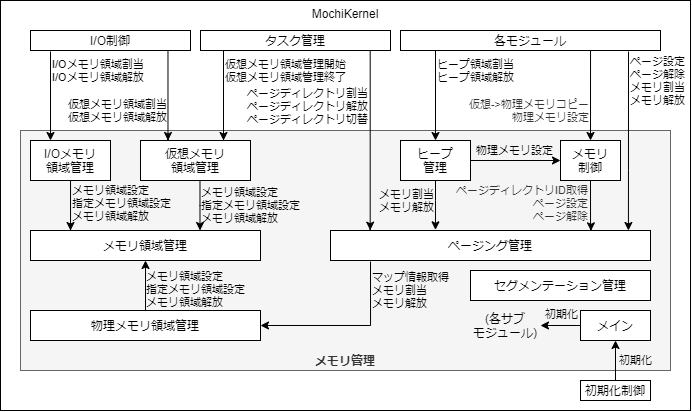
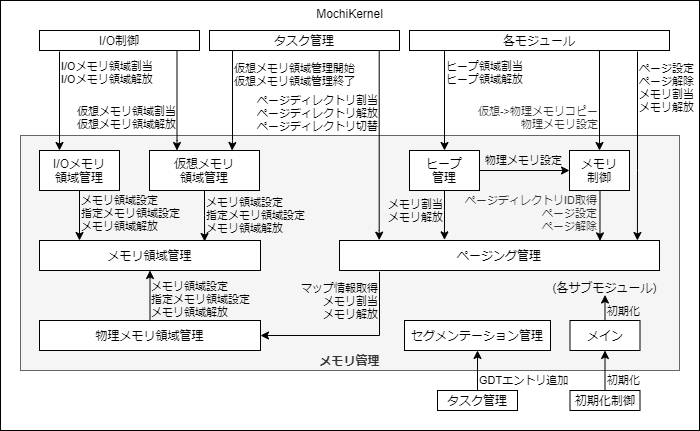
MemmngSgmtモジュールの内部仕様追加

Changed region(s): [[0.0303, 0.0, 1.0, 0.9612], [0.0, 0.9903, 1.0, 1.0]]

diff --git a/docs/docs/internal/Memmng/Sgmt/index.html b/docs/docs/internal/Memmng/Sgmt/index.html
@@ -1,0 +1,91 @@
+<!doctype html>
+<html lang="ja">
+    <head>
+        <meta charset="utf-8">
+        <meta http-equiv="X-UA-Compatible" content="IE=edge"><!-- IE互換モード回避 -->
+        <meta name="author" content="Mochi">
+        <meta name="viewport" content="width=device-width,initial-scale=1"><!-- レスポンシブデザイン -->
+        <meta name="description" content="MochiKernelはフルスクラッチで開発中のマイクロカーネルです。">
+        <meta name="format-detection" content="email=no,telephone=no,address=no">
+        <meta property="og:url" content="https://MasterMochi.github.io/MochiKernel/">
+        <meta property="og:title" content="MochiKernel">
+        <meta property="og:type" content="website">
+        <meta property="og:description" content="MochiKernelはフルスクラッチで開発中のマイクロカーネルです。">
+        <!-- <meta property="og:image" content=""> -->
+        <meta name="twitter:card" content="summary_large_image">
+        <meta name="twitter:site" content="@master_mochi">
+        <!-- <meta name="msapplication-TileImage" content="" --><!-- MSWIN8～ピン留め対応 -->
+        <meta name="msapplication-TitleColor" content="#424242"><!-- MSWIN8～ピン留め対応 -->
+        <link rel="stylesheet" href="../../../../style.css">
+        <link rel="canonical" href="https://MasterMochi.github.io/MochiKernel/">
+        <link href="https://fonts.googleapis.com/css?family=Cutive+Mono" rel="stylesheet">
+        <link href="https://fonts.googleapis.com/css?family=Sawarabi+Mincho" rel="stylesheet">
+        <link href="https://use.fontawesome.com/releases/v5.5.0/css/all.css" rel="stylesheet" integrity="sha384-B4dIYHKNBt8Bc12p+WXckhzcICo0wtJAoU8YZTY5qE0Id1GSseTk6S+L3BlXeVIU" crossorigin="anonymous">
+        <title>MochiKernel - Documentation</title>
+    </head>
+    <body>
+        <a name="totop"></a>
+        <div id="header">
+            <div id="menu">
+                <a href="../../../../index.html"><div id="logo">MochiKernel</div></a>
+                <a href="../../../index.html"><div>Docs</div></a>
+            </div>
+        </div>
+        <div id="crumb">
+            <ol itemscope itemtype="http://schema.org/BreadcrumbList">
+                <li itemprop="itemListElement" itemscope itemtype="http://schema.org/ListItem">
+                    <a itemprop="item" href="../../../../index.html"><span itemprop="name">Home</span></a>
+                    <meta itemprop="position" content="1"></li>
+                <li itemprop="itemListElement" itemscope itemtype="http://schema.org/ListItem">
+                    <a itemprop="item" href="../../../index.html"><span itemprop="name">Docs</span></a>
+                    <meta itemprop="position" content="2"></li>
+                <li itemprop="itemListElement" itemscope itemtype="http://schema.org/ListItem">
+                    <a itemprop="item" href="../../../index.html#internal"><span itemprop="name">内部仕様</span></a>
+                    <meta itemprop="position" content="3"></li>
+                <li itemprop="itemListElement" itemscope itemtype="http://schema.org/ListItem">
+                    <a itemprop="item" href="../index.html"><span itemprop="name">メモリ管理</span></a>
+                    <meta itemprop="position" content="4"></li>
+                <li itemprop="itemListElement" itemscope itemtype="http://schema.org/ListItem">
+                    <a itemprop="item" href="./index.html"><span itemprop="name">セグメンテーション管理</span></a>
+                    <meta itemprop="position" content="5"></li>
+            </ol>
+        </div>
+        <div id="content">
+            <div>
+                <h1>セグメンテーション管理 - 目次</h1>
+                <ol>
+                    <li><a href="#init">初期化</a><ol>
+                        <li><a href="#init-gdtr">GDTR設定</a></li></ol></li>
+                    <li><a href="#add">GDTエントリ追加</a></li>
+                </ol>
+            </div>
+            <div class="totop"><a href="#top">▲上へ</a></div>
+            <div>
+                <h1><a name="init">初期化</a></h1>
+                <p>GDTR設定を行う。シーケンスを以下に示す。</p>
+                <br>
+                <div class="center">
+                    <img src="init.png"><br>
+                    初期化シーケンス
+                </div>
+                <br>
+                <br>
+                <h2><a name="init-gdtr">GDTR設定</a></h2>
+                <p>GDTRの設定を行う。詳細は<a href="../../../external/memory/virt/index.html#sgmt-gdtr">外部仕様(仮想メモリ管理)のGDTRレジスタ設定</a>を参照のこと。</p>
+                <br>
+            </div>
+            <div class="totop"><a href="#top">▲上へ</a></div>
+            <div>
+                <h1><a name="add">GDTエントリ追加</a></h1>
+                <p>GDTの未使用エントリに動的にエントリを追加する機能を持つ。未使用エントリの検索は、インデックス1から(0はNULLで使用のため)Pフラグが0のエントリを判定する事で行う。エントリフォーマットの詳細は<a href="../../../external/memory/virt/index.html#abstruct-segmentation">外部仕様(仮想メモリ管理)のIA-32のセグメンテーション機能</a>を参照のこと。</p>
+                <br>
+            </div>
+            <div class="totop"><a href="#top">▲上へ</a></div>
+        </div>
+        <div id="footer">
+            <div id="copyright">
+                Copyright &copy 2020 Mochi. All rights reserved.
+            </div>
+        </div>
+    </body>
+</html>

diff --git a/docs/docs/internal/Memmng/index.html b/docs/docs/internal/Memmng/index.html
@@ -90,9 +90,9 @@
                     </tr>
                     <tr>
                         <td class="center">2</td>
-                        <td>セグメンテーション管理</td>
+                        <td><a href="Sgmt/index.html">セグメンテーション管理</a></td>
                         <td>MemmngSgmt</td>
-                        <td>グローバルディスクリプタテーブルを定義しCPUに設定する。</td>
+                        <td>グローバルディスクリプタテーブルを管理しCPUに設定する。</td>
                     </tr>
                     <tr>
                         <td class="center">3</td>

diff --git a/docs/docs/index.html b/docs/docs/index.html
@@ -68,7 +68,7 @@
                         <li>初期化制御</li>
                         <li><a href="internal/Memmng/index.html">メモリ管理</a><ol>
                             <li>メイン</li>
-                            <li>セグメンテーション管理</li>
+                            <li><a href="internal/Memmng/Sgmt/index.html">セグメンテーション管理</a></li>
                             <li>ページング管理</li>
                             <li>物理メモリ領域管理</li>
                             <li>仮想メモリ領域管理</li>
